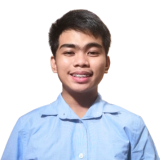
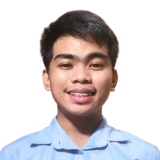
Update on About Page (2)
- Added Ize and Virgel's photos
- Updated my photo to fit with everyone's photos

diff --git a/src/Aboutpage.jsx b/src/Aboutpage.jsx
@@ -1,7 +1,11 @@
+import alotayaA from "./assets/Alotaya_ID.png";
+import alotayaB from "./assets/Alotaya_Silhouette.jpg";
 import galanidaA from "./assets/Galanida_ID.png";
 import galanidaB from "./assets/Galanida_Silhouette.jpg";
 import soralloA from "./assets/Sorallo_ID.png";
 import soralloB from "./assets/Sorallo_Silhouette.jpg";
+import torresA from "./assets/Torres_ID.png";
+import torresB from "./assets/Torres_Silhouette.jpg";
 
 export const Aboutpage = () => {
   return (
@@ -40,14 +44,14 @@ export const Aboutpage = () => {
             <div className="team-card-container">
               <div className="team-view-container">
                 <img
-                  src={galanidaB}
+                  src={alotayaB}
                   className="view-img"
                   alt="Silhouette of Alotaya, Isaac Jadon #22101054"
                 />
               </div>
               <div className="team-img-container">
                 <img
-                  src={galanidaA}
+                  src={alotayaA}
                   className="nft-img"
                   alt="Image of Alotaya, Isaac Jadon #22101054"
                 />
@@ -112,14 +116,14 @@ export const Aboutpage = () => {
             <div className="team-card-container">
               <div className="team-view-container">
                 <img
-                  src={galanidaB}
+                  src={torresB}
                   className="view-img"
                   alt="Silhouette of Torres, Virgel Rai #22103868"
                 />
               </div>
               <div className="team-img-container">
                 <img
-                  src={galanidaA}
+                  src={torresA}
                   className="nft-img"
                   alt="Image of Torres, Virgel Rai #22103868"
                 />
